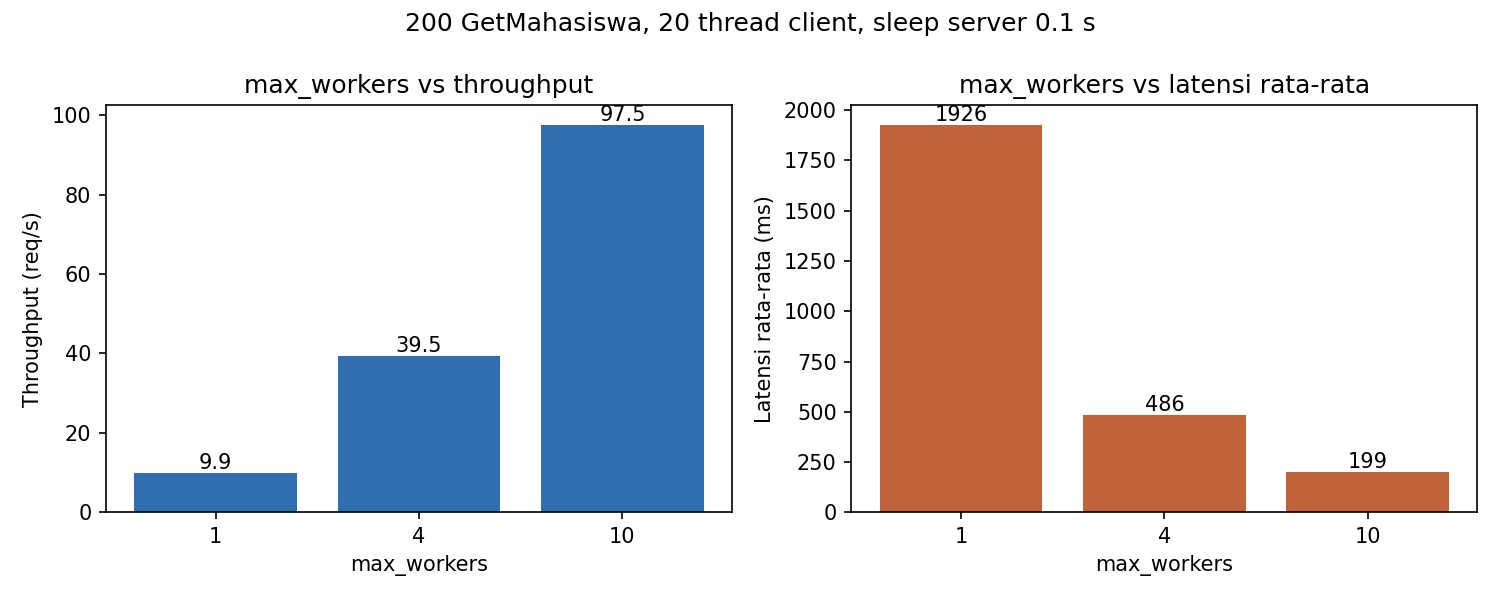
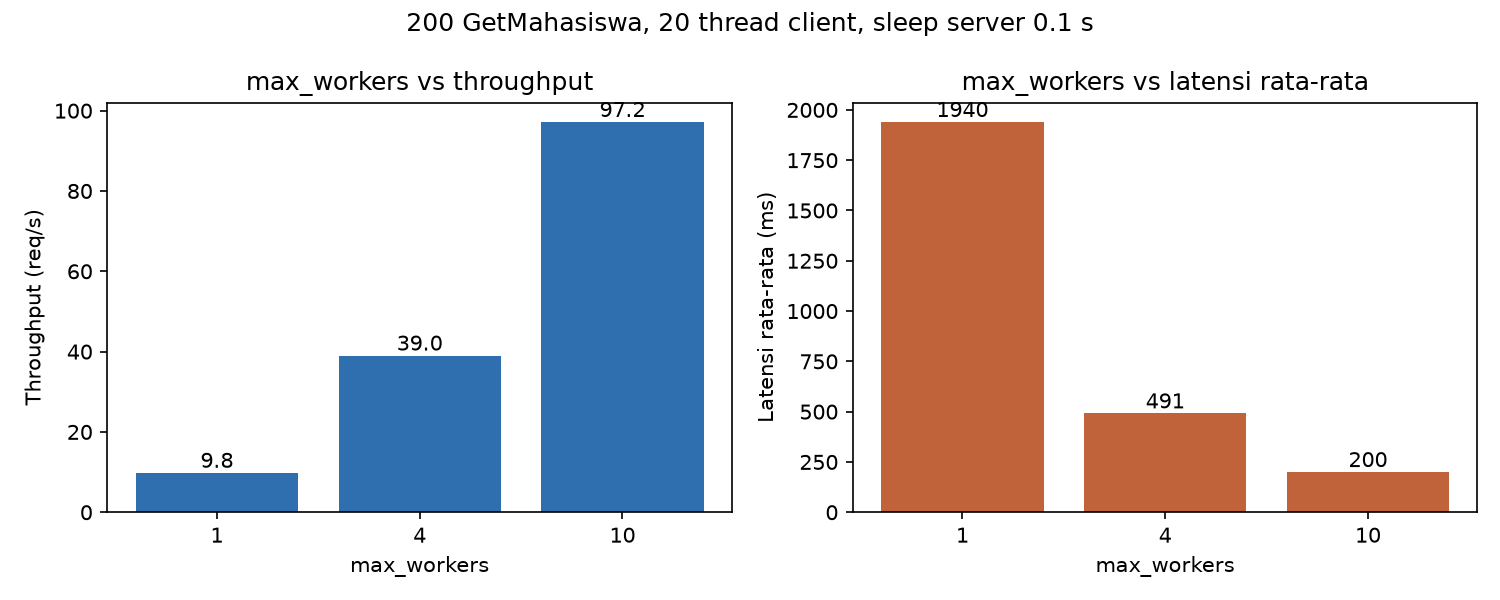
docs: lengkapi README.md utama dengan ringkasan praktikum, struktur, panduan eksekusi, dan hasil eksperimen

diff --git a/04_PRAKTIKUM_3_FAILURE/hasil_pengujian/L3_3_hasil.md b/04_PRAKTIKUM_3_FAILURE/hasil_pengujian/L3_3_hasil.md
@@ -15,11 +15,11 @@ Pengulangan 20x: DENGAN LOCK menyimpang 0/20 eksekusi; TANPA LOCK menyimpang 0/2
 
 | Kondisi | Saldo A | Saldo B | Total | Transaksi dieksekusi | Sukses | Gagal |
 |---|---:|---:|---:|---:|---:|---:|
-| TANPA LOCK #1 | 920 | 570 | 1490 | 50 | 50 | 0 |
-| TANPA LOCK #2 | 890 | 610 | 1500 | 50 | 50 | 0 |
-| TANPA LOCK #3 | 890 | 610 | 1500 | 50 | 50 | 0 |
-| TANPA LOCK #4 | 950 | 550 | 1500 | 50 | 50 | 0 |
-| TANPA LOCK #5 | 930 | 560 | 1490 | 50 | 50 | 0 |
+| TANPA LOCK #1 | 840 | 670 | 1510 | 50 | 50 | 0 |
+| TANPA LOCK #2 | 870 | 640 | 1510 | 50 | 50 | 0 |
+| TANPA LOCK #3 | 870 | 620 | 1490 | 50 | 50 | 0 |
+| TANPA LOCK #4 | 890 | 630 | 1520 | 50 | 50 | 0 |
+| TANPA LOCK #5 | 880 | 630 | 1510 | 50 | 50 | 0 |
 | DENGAN LOCK #1 | 500 | 1000 | 1500 | 50 | 50 | 0 |
 | DENGAN LOCK #2 | 500 | 1000 | 1500 | 50 | 50 | 0 |
 | DENGAN LOCK #3 | 500 | 1000 | 1500 | 50 | 50 | 0 |
@@ -34,5 +34,5 @@ Yang benar: transfer dieksekusi SATU kali (A=990). Jeda 10 ms disisipkan agar in
 
 | Kondisi | Saldo A | Saldo B | Transaksi dieksekusi |
 |---|---:|---:|---:|
-| TANPA LOCK | 990 | 510 | 10 |
+| TANPA LOCK | 990 | 520 | 10 |
 | DENGAN LOCK | 990 | 510 | 1 |

diff --git a/04_PRAKTIKUM_3_FAILURE/hasil_pengujian/L3_2_hasil_seed42.md b/04_PRAKTIKUM_3_FAILURE/hasil_pengujian/L3_2_hasil_seed42.md
@@ -12,7 +12,7 @@
 | Total saldo akhir | 1500 |
 | Target (A / B / total) | 800 / 700 / 1500 |
 | Status pengujian | TIDAK SESUAI TARGET |
-| Durasi | 34.1 s |
+| Durasi | 34.2 s |
 
 Selisih A terhadap target 800: -120
 Eksekusi berlebih di server (eksekusi - 20 transfer logis): 12

diff --git a/04_PRAKTIKUM_3_FAILURE/hasil_pengujian/L3_1_hasil_seed42.md b/04_PRAKTIKUM_3_FAILURE/hasil_pengujian/L3_1_hasil_seed42.md
@@ -12,4 +12,4 @@
 | Total saldo akhir | 1500 |
 | Target (A / B / total) | 800 / 700 / 1500 |
 | Status pengujian | LULUS |
-| Durasi | 25.1 s |
+| Durasi | 25.2 s |
